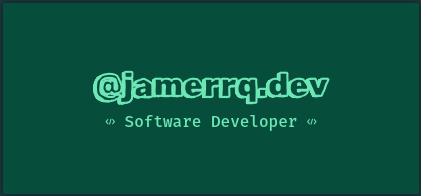
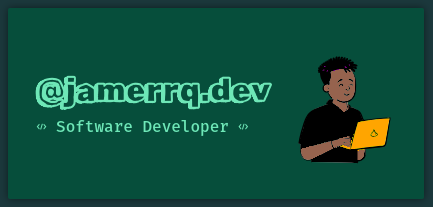
🎨 improving styless

Changed region(s): [[0.0618, 0.2755, 0.9264, 0.7959], [0.0, 0.0, 1.0, 1.0]]

diff --git a/readme.md b/readme.md
@@ -4,22 +4,33 @@ Source code for my personal website, [jamerrq.dev](https://jamerrq.dev).
 
 ### Dark Mode
 
-![v3_dark](./lib/v3_dark.png)
+![v4_dark](./lib/v4_dark.png)
 
 ### Light Mode
 
-![v3_light](./lib/v3_light.png)
+![v4_light](./lib/v4_light.png)
 
 ### LightHouse Report
 
 ![LightHouse Score](./lib/lighthouse.png)
 
+## Pages 📄
+
+### Tech Stack
+
+![Tech Stack](./lib/pages/tech-stack.png)
+
+### 404
+
+![404](./lib/pages/404.png)
+
+> [!NOTE]
+> Other pages are still under development 🚧. As well as the translations.
+
 ## Stack 🥞
 
 ![Astro](https://img.shields.io/badge/-Astro-000000?style=flat-square&logo=astro&logoColor=white)
-![TypeScript](https://img.shields.io/badge/-TypeScript-007ACC?style=flat-square&logo=typescript&logoColor=white)
-![Tailwind
-CSS](https://img.shields.io/badge/-Tailwind%20CSS-38B2AC?style=flat-square&logo=tailwind-css&logoColor=white)
+![Tailwind CSS](https://img.shields.io/badge/-Tailwind%20CSS-38B2AC?style=flat-square&logo=tailwind-css&logoColor=white)
 
 ### Tooling 🛠
 
@@ -37,3 +48,5 @@ CSS](https://img.shields.io/badge/-Tailwind%20CSS-38B2AC?style=flat-square&logo=
 - [Nerd Fonts Cheat Sheet](https://www.nerdfonts.com/cheat-sheet)
 - [Tailwind CSS Debug Screens](https://github.com/jorenvanhee/tailwindcss-debug-screens)
 - [Typed CSS](https://typedcss.com/)
+- [CSS Peeps](https://css-peeps.com/)
+- [Tailwind Cheat Sheet](https://tailwindcomponents.com/cheatsheet/)
